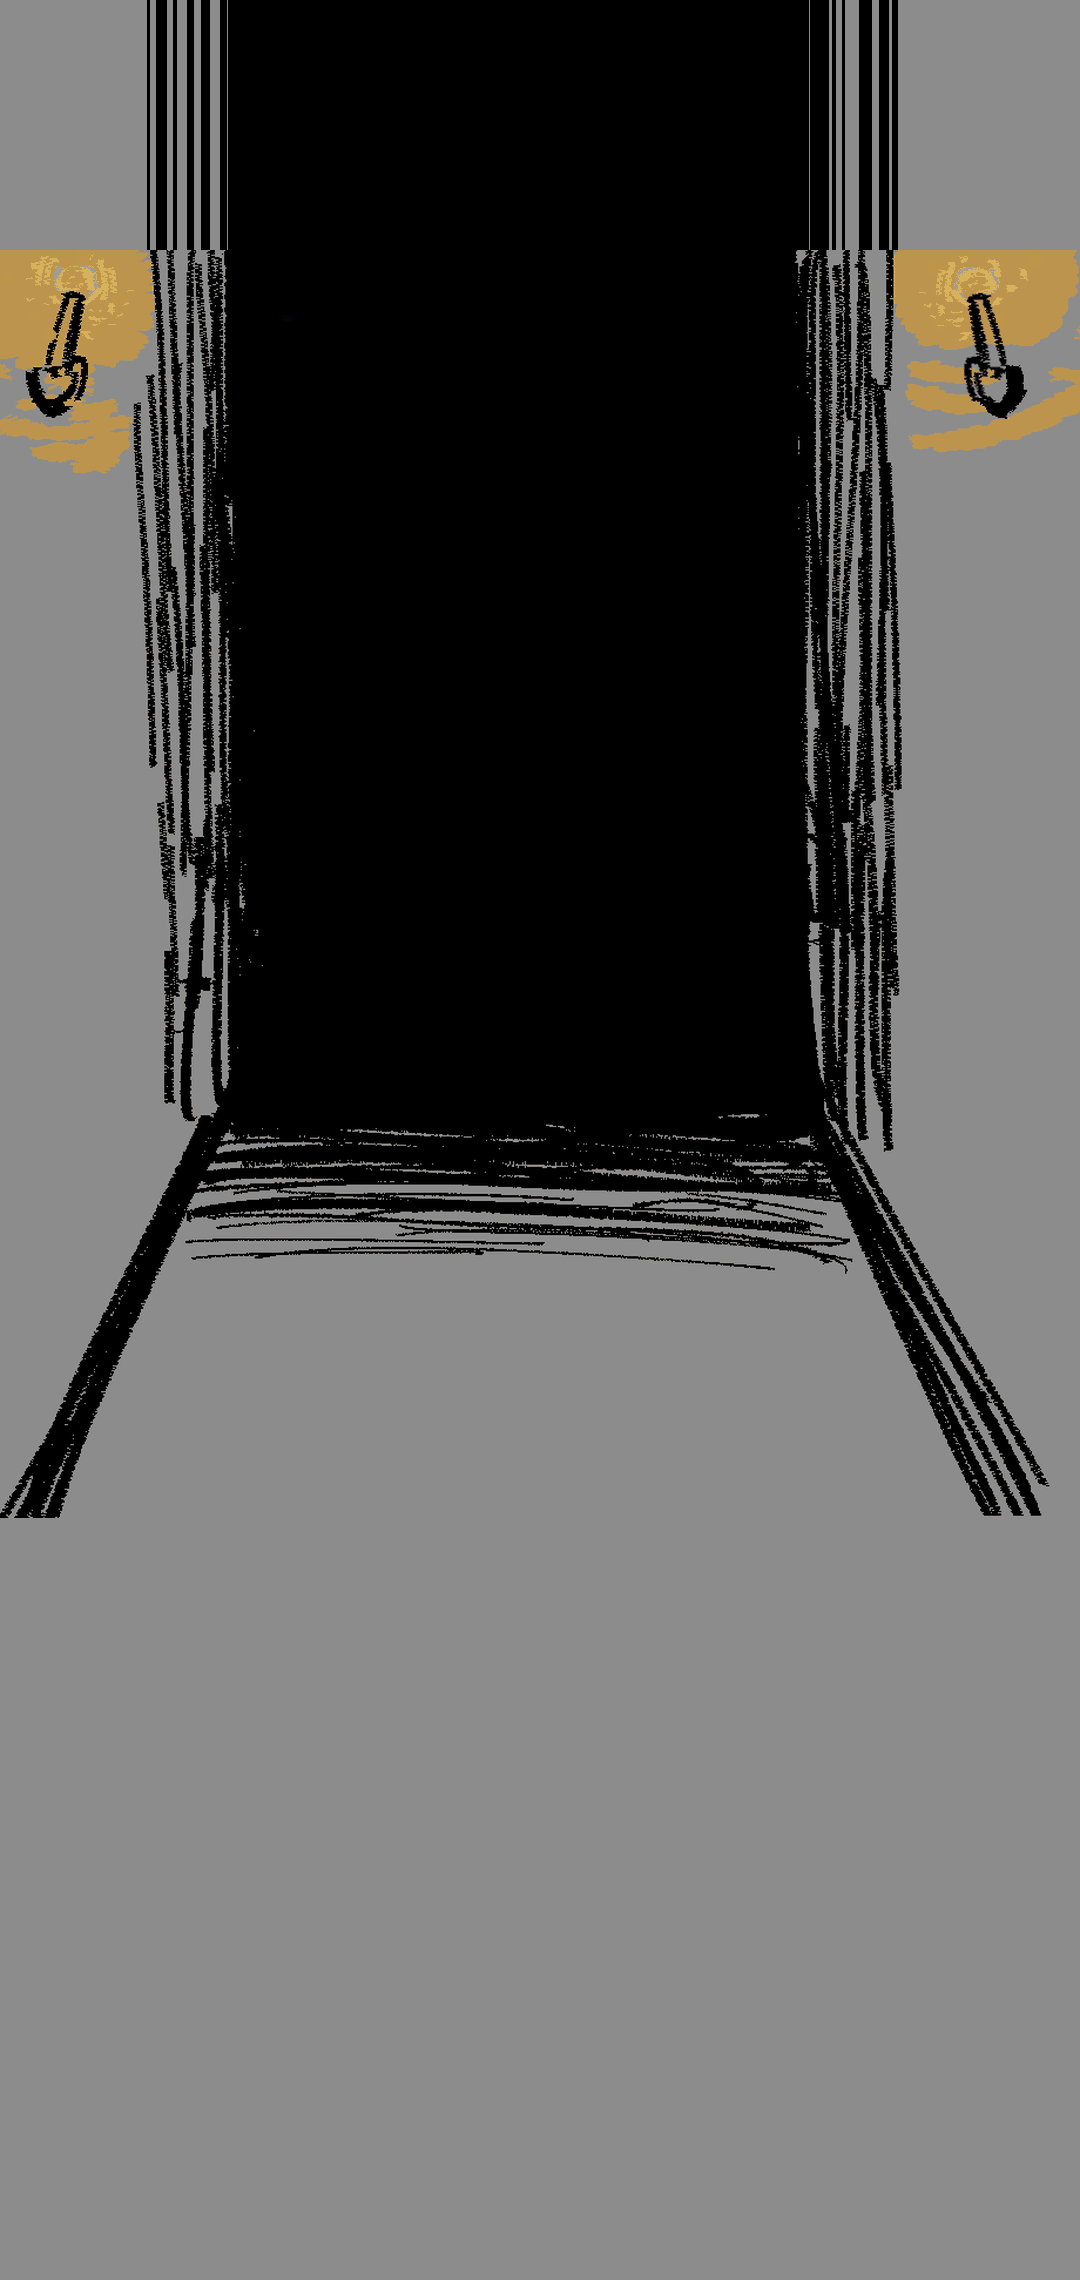
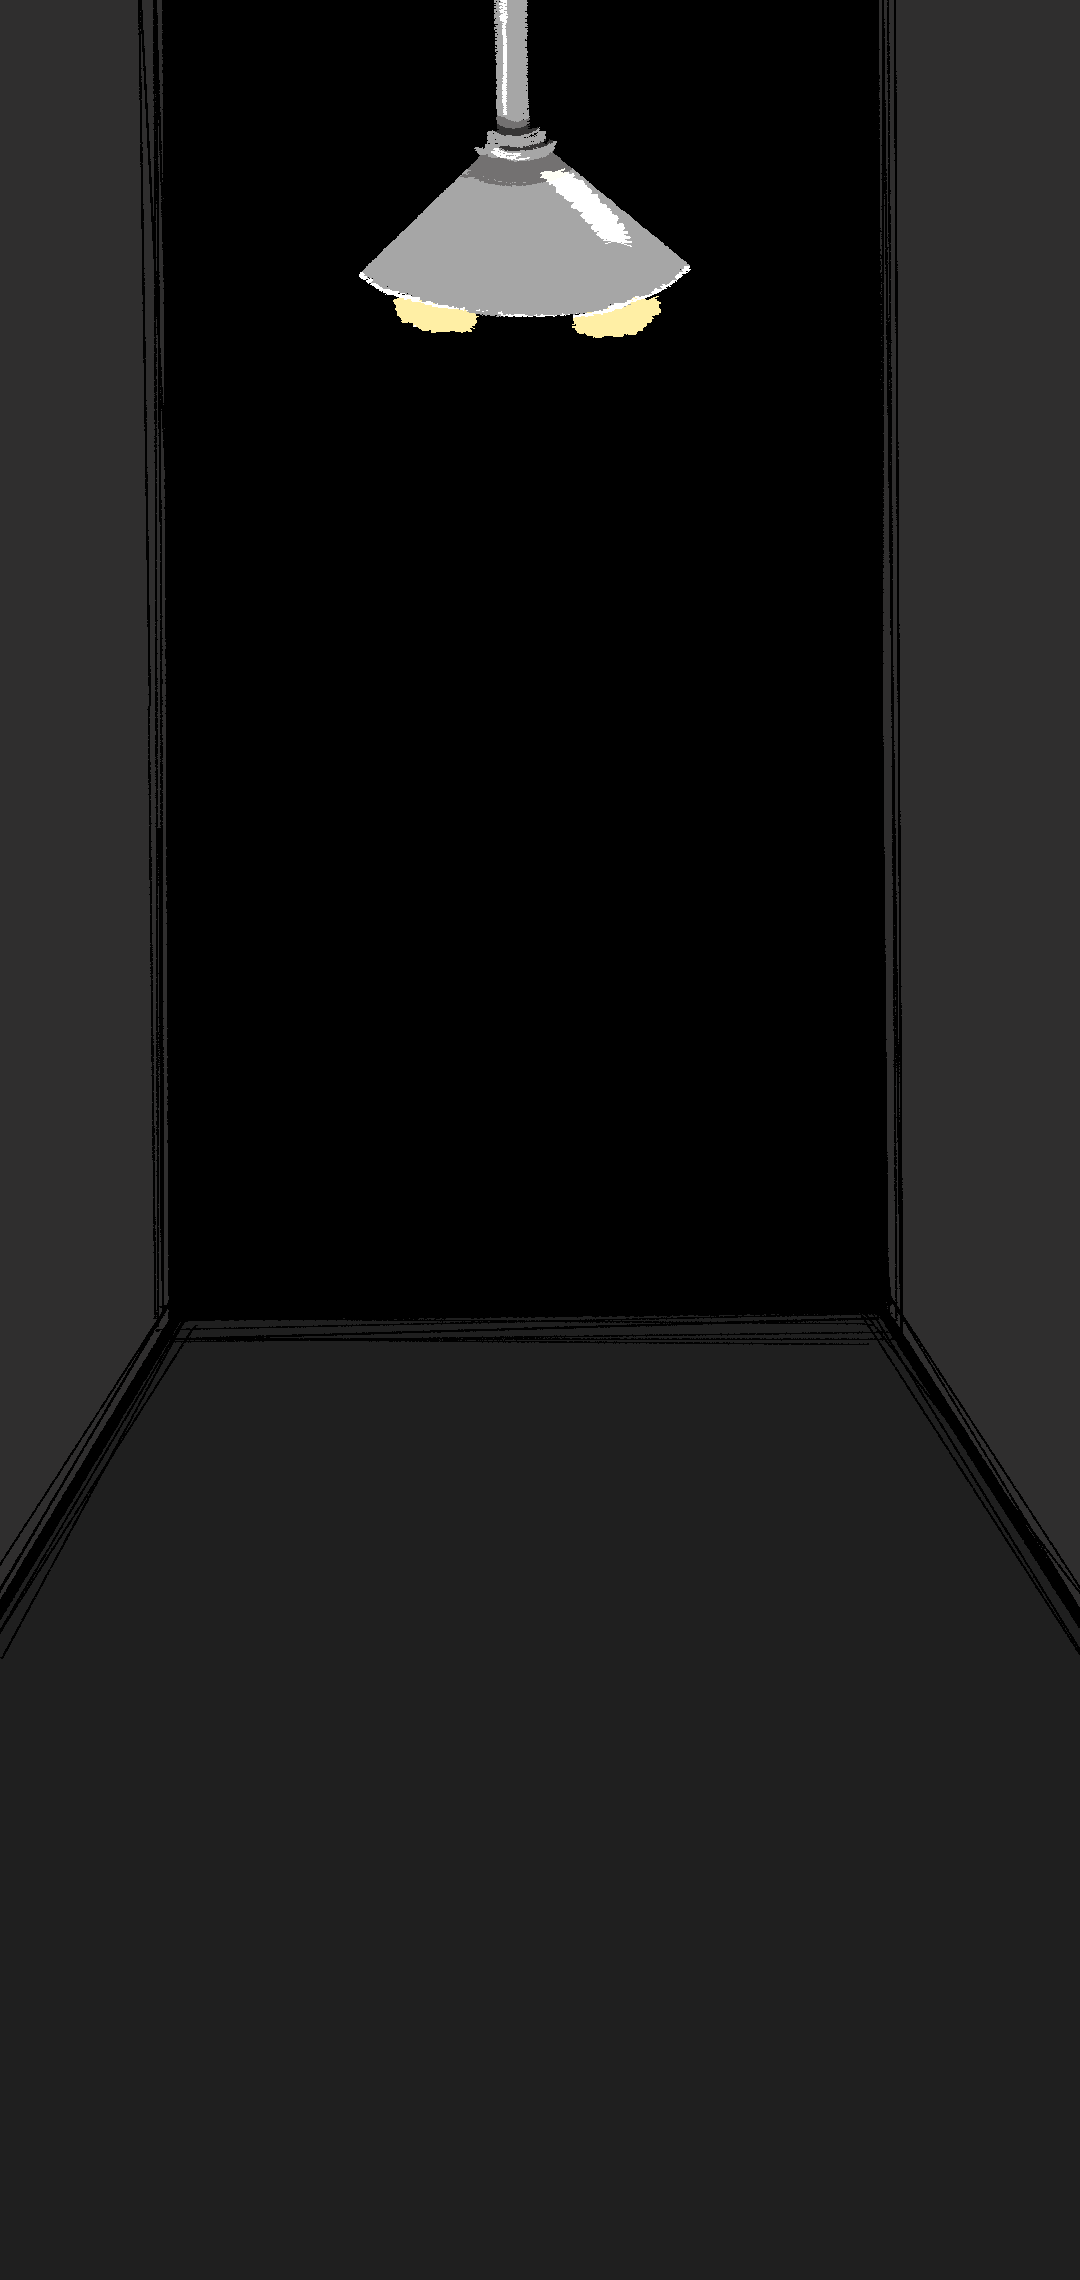
fix mobile background

diff --git a/index.html b/index.html
@@ -16,7 +16,7 @@ table{border-collapse:collapse;width:100%;font-size:14px}td,th{border-bottom:1px
 .world{position:relative;overflow:hidden;width:min(100vw,177.78vh);width:min(100vw,177.78dvh);aspect-ratio:16/9;
  --bg:url(assets/bg_pc.png);--dw:41.67%;--dt:-.8%;--oy:32.5%;--tw:57.3%;--tt:21.3%;--g1h:78%;--g1x:-2%;--g1b:-5%;--g2h:80%;--g2x:16.3%;--g2b:-.3%;--g3h:60%;--gy:-41%;--mw:19%;--mb:34%;--is:3.1cqw}
 @media(max-aspect-ratio:1/1){.world{width:min(100vw,47.37vh);width:min(100vw,47.37dvh);aspect-ratio:9/19;
- --bg:url(assets/bg_phone.png);--dw:120.4%;--dt:16.27%;--oy:25%;--tw:112%;--tt:39.43%;--g1h:56%;--g1x:15%;--g1b:-8.4%;--g2h:60%;--g2x:39%;--g2b:0%;--g3h:42%;--gy:-38%;--mw:46%;--mb:9%;--is:3.7cqw}}
+ --bg:url(assets/bg_phone.png);--dw:120.4%;--dt:14.5%;--oy:25%;--tw:112%;--tt:39.43%;--g1h:56%;--g1x:30%;--g1b:-8.4%;--g2h:60%;--g2x:39%;--g2b:0%;--g3h:42%;--gy:-38%;--mw:46%;--mb:9%;--is:3.7cqw}}
 .scene{position:absolute;inset:0;perspective:700px;background:#8c8c8c var(--bg) center/100% 100% no-repeat}
 .dvs{position:absolute;left:50%;top:var(--dt);width:var(--dw);aspect-ratio:1;translate:-50% 0}.dvs img,.dvs svg{position:absolute;inset:0;width:100%;height:100%}.dv{position:absolute;inset:0;-webkit-mask-image:linear-gradient(#000 84%,transparent 96%);mask-image:linear-gradient(#000 84%,transparent 96%)}
 .dh{transform-origin:49% 51%;animation:nod 5s ease-in-out infinite}@keyframes nod{0%,100%{rotate:-1.2deg}50%{rotate:1.2deg}}
@@ -26,10 +26,16 @@ table{border-collapse:collapse;width:100%;font-size:14px}td,th{border-bottom:1px
 .cat.fd img{transition:opacity .6s}.cat img.cfo{animation:cfo .6s linear both}.cat img.cfi{animation:cfi .6s linear both}@keyframes cfo{from{opacity:1}to{opacity:0}}@keyframes cfi{from{opacity:0}to{opacity:1}}.cat[data-s="2"] .c2_2{animation:c22 1s steps(1) var(--cd,0ms) infinite}@keyframes c22{0%{opacity:0}50%{opacity:1}}/* 貓 2 嚇到時：每 0.5 秒在 2 和 2-2 之間切換 */
 .cat[data-s="1"] .c1,.cat[data-s="2"] .c2,.cat[data-s="3"] .c3{opacity:1}
 /* 電腦版：新桌子是整張 16:9 跟背景疊在一起；桌上的字和愛心位置都是相對整個畫面 */
-@media(min-aspect-ratio:1/1){.cat{display:block}.tb{left:0;top:0;width:100%;aspect-ratio:16/9;translate:none}.tb .tpc{display:block}.tb .tph{display:none}
+/* 電腦版與手機版都用同一張 16:9 新桌子；桌上的字和愛心位置是相對桌子這張圖 */
+.tb .tpc{display:block}.tb .tph{display:none}
  .tb .n{top:71.8%;font-size:3.5cqw;transform:skewX(27deg)}.tb #vb{left:69.8%}.tb #vl{left:78.3%;transform:skewX(31deg)}
  .tb .inf{left:27.3%;top:68.9%;width:20%;font-size:2.35cqw}
- .tb .hpd{left:50%;top:57.6%;height:2.3cqw}.tb .hpm{left:11.5%;top:87%;height:3.4cqw}}
+ .tb .hpd{left:50%;top:57.6%;height:2.3cqw}.tb .hpm{left:11.5%;top:87%;height:3.4cqw}
+body #msg{bottom:auto;top:7%}
+@media(min-aspect-ratio:1/1){.cat{display:block}.tb{left:0;top:0;width:100%;aspect-ratio:16/9;translate:none}}
+/* 手機直式：桌子放大、左右超出畫面一點（照手機版示意圖的位置），字和愛心放大 */
+@media(max-aspect-ratio:1/1){.tb{left:-13.54%;top:39.31%;width:126.46%;aspect-ratio:16/9;translate:none}
+ .tb .inf{font-size:3.3cqw}.tb .n{font-size:4.2cqw}.tb .hpd{height:3.2cqw}.tb .hpm{left:17%;top:86%;height:5cqw}}
 .n{position:absolute;top:52.9%;translate:-50% -50%;transform:skewX(14deg);font-weight:800;font-size:5.6cqw;line-height:1;font-variant-numeric:tabular-nums}
 #vb{left:71.2%}#vl{left:80.6%;color:#c0392b}.hp{position:absolute;display:flex;gap:1.2cqw;translate:-50% -50%}.tb .hp img{position:static;width:auto;height:100%}.hp .lost{opacity:.2;filter:grayscale(1)}.hpd{left:50%;top:41.6%;height:3.6cqw}.hpm{left:12.5%;top:64%;height:6.2cqw;translate:0 -50%}
 .inf{position:absolute;left:25.5%;top:51%;width:24%;translate:-50% -50%;display:flex;flex-direction:column;align-items:center;font-size:3.5cqw;font-weight:800;line-height:1.45;white-space:nowrap;text-align:center}.inf i{font-style:normal;color:#c0392b}
@@ -69,6 +75,7 @@ table{border-collapse:collapse;width:100%;font-size:14px}td,th{border-bottom:1px
 .itm{position:absolute;left:50%;translate:-50% 0;bottom:calc(3% + 58px);z-index:6;margin:0;width:auto;padding:8px 16px;font-size:15px;white-space:nowrap}
 .pk{border-radius:999px;background:#000c;color:#eee;border:2px solid #888}.pk.lv{border-color:#c0392b;color:#ffb3a8}.pk.lv b{color:#ff5a46}.pk.bk b{color:#fff}
 @media(max-aspect-ratio:1/1){.itm{bottom:70px}}
+@media(max-aspect-ratio:1/1){body .vol{bottom:128px}}/* 手機直式：音量移到按鈕上面，避免擋住「射自己」 */
 .tg{display:flex;gap:10px;align-items:center;margin:14px 0;padding:10px 14px;border:2px dashed var(--line);border-radius:12px;cursor:pointer}.tg input{width:22px;height:22px;margin:0}
 .intro{position:fixed;inset:0;z-index:20;background:transparent;display:grid;place-items:center;overflow:hidden}
 .iw{position:relative;width:min(100vw,177.78vh);aspect-ratio:16/9;overflow:hidden;container-type:inline-size;color:#eee}
@@ -364,7 +371,7 @@ function peek(){if(!s.it||s.pk===s.i||s.i>=s.sh.length)return;s.it--;s.pk=s.i;co
 function act(a,to){if(quitted)return;clearInterval(tm);sfx('loaded');const dt=Math.min(C.T,(Date.now()-t0)/1000);draw('瞄準中…',1,{aim:a==='s'?'self':'dev'});W(()=>fire(a,to,dt),1500)}
 function fire(a,to,dt){if(quitted)return;const pk=s.pk===s.i?(s.sh[s.i]?'live':'blank'):'',pre=a==='c'?face({aim:'dev'}):'',b=left(s),sb=s.score,hp=s.hp,hc=s.hc,ev=shoot(s,a),m=[];
  if(to)m.push('超時，自動射惡魔。');
- ev.forEach((e,j)=>{log('shot',{level:s.n,shot_no:++shot,live_left:b[0],blank_left:j?b[1]-1:b[1],hp,hc,score_before:j?ev[0].sc:sb,actor:e.actor,action:j?'retaliate':to?'timeout_computer':a==='s'?'self':'computer',result:e.x?'live':'blank',score_after:e.sc,dec_time:j?'':dt.toFixed(2),timeout:to?1:0,peeked:j?'':pk,item_left:j?'':s.it});
+ ev.forEach((e,j)=>{log('shot',{level:s.n,shot_no:++shot,live_left:b[0],blank_left:j?b[1]-1:b[1],hp,hc,score_before:j?ev[0].sc:sb,actor:e.actor,action:j?'retaliate':to?'timeout_computer':a==='s'?'self':'computer',result:e.x?'live':'blank',score_after:e.sc,dec_time:j?'':dt.toFixed(2),timeout:j?'':to?1:0,peeked:j?'':pk,item_left:j?'':s.it});
   m.push(j?`惡魔反擊：${e.x?'實彈，你的生命 −1':'空彈'}。`:e.tgt==='self'?`對自己開槍：${e.x?'實彈，生命 −1':'空彈，+'+C.a+' 分'}。`:`對惡魔開槍：${e.x?'實彈，+'+C.b+' 分，惡魔生命 −1':'空彈，−'+C.d+' 分'}。`)});
  const r=fin(s),e0=ev[0],e1=ev[1],fx={a:e0.tgt==='self'?(e0.x?'selfl':'selfb'):(e0.x?'hitd':'clkd'),r:e1?(e1.x?'live':'blank'):'',h0:hp,k:r==='clear'},full=m.join('<br>');if(fx.a==='hitd')fx.pf=pre;
  /* 結果在開槍那一刻才揭曉：反擊前只顯示玩家這一發之後的狀態 */
@@ -406,7 +413,7 @@ function simGame(o,P,gno,t0){/* 回傳這一局的事件列（跟真實紀錄同
     pk=seen;a=seen==='live'?'c':'s';d=dp+thinkT(seen==='live'?1:0)*.6;t+=(d-dp)*1000}else t+=Math.min(d,C.T)*1000;
    if(d>=C.T){d=C.T;to=1;a='c'}
    const sb=x.score,hp=x.hp,hc=x.hc,ev=shoot(x,a);
-   ev.forEach((e,j)=>{L('shot',{level:n,shot_no:++shotN,live_left:b[0],blank_left:j?b[1]-1:b[1],hp,hc,score_before:j?ev[0].sc:sb,actor:e.actor,action:j?'retaliate':to?'timeout_computer':a==='s'?'self':'computer',result:e.x?'live':'blank',score_after:e.sc,dec_time:j?'':d.toFixed(2),timeout:to,peeked:j?'':pk,item_left:j?'':it})});
+   ev.forEach((e,j)=>{L('shot',{level:n,shot_no:++shotN,live_left:b[0],blank_left:j?b[1]-1:b[1],hp,hc,score_before:j?ev[0].sc:sb,actor:e.actor,action:j?'retaliate':to?'timeout_computer':a==='s'?'self':'computer',result:e.x?'live':'blank',score_after:e.sc,dec_time:j?'':d.toFixed(2),timeout:j?'':to,peeked:j?'':pk,item_left:j?'':it})});
    t+=SIMT.AIM*1000;r=fin(x);const e0=ev[0],e1=ev[1];
    const k=e0.tgt==='self'?(e0.x?(r==='dead'?'SD':'SL'):'SB'):(e0.x?(r==='clear'?'KILL':'HIT'):(e1&&e1.x?(r==='dead'?'RD':'RL'):'RB'));t+=SIMT[k]*1000}
   if(!r)r='out';sc=x.score;L('level_end',{level:n,end_reason:r,score_after:x.score,hp:x.hp,hc:x.hc});
